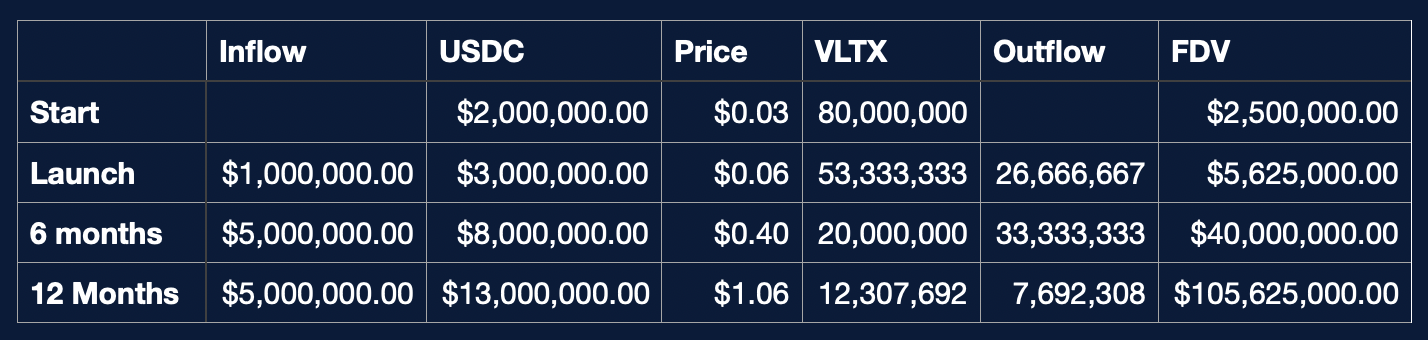
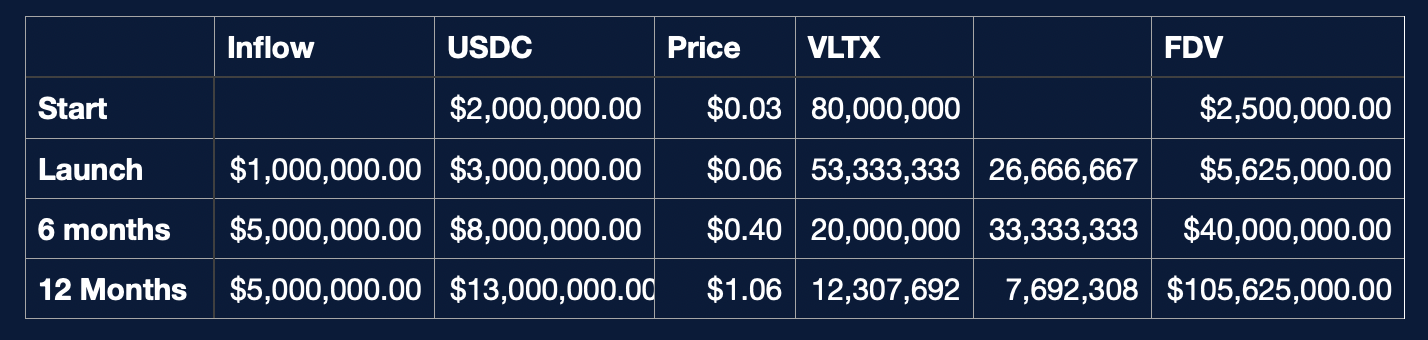
GITBOOK-7: No subject

diff --git a/voltix-token/airdrop.md b/voltix-token/airdrop.md
@@ -4,3 +4,22 @@ description: Aggressively buying Users and AUM
 
 # Airdrop
 
+Users have an option to register their vaults for an Airdrop. To do this, they send their ECDSA and EdDSA public keys to an airdrop registry, which will scan for presence of funds on chains, and then begin counting Airdrop Value.&#x20;
+
+A new scan will be performed each month, and the User Airdrop Value accumulates. Users that keep the funds the longest in Voltix will earn the highest Airdrop Value.
+
+```
+user_airdrop_value += $total_vault_value
+```
+
+The final share of the airdrop is the pro-rata share of the Airdrop
+
+```
+user_share = 20,000,000 * user_airdrop_value / total_aidrop_value
+```
+
+{% hint style="warning" %}
+Do not register for the airdrop if you do not wish for your public keys to be sent to the&#x20;
+{% endhint %}
+
+<figure><img src="../.gitbook/assets/image.png" alt="" width="143"><figcaption></figcaption></figure>

diff --git a/voltix-token/launch.md b/voltix-token/launch.md
@@ -24,7 +24,7 @@ The following is an indication of how the launch could go, and the subsequent 12
 These are fictional numbers for now
 {% endhint %}
 
-<figure><img src="../.gitbook/assets/image (1).png" alt=""><figcaption></figcaption></figure>
+<figure><img src="../.gitbook/assets/image (1) (1).png" alt=""><figcaption></figcaption></figure>
 
 ### LP Ownership
 
